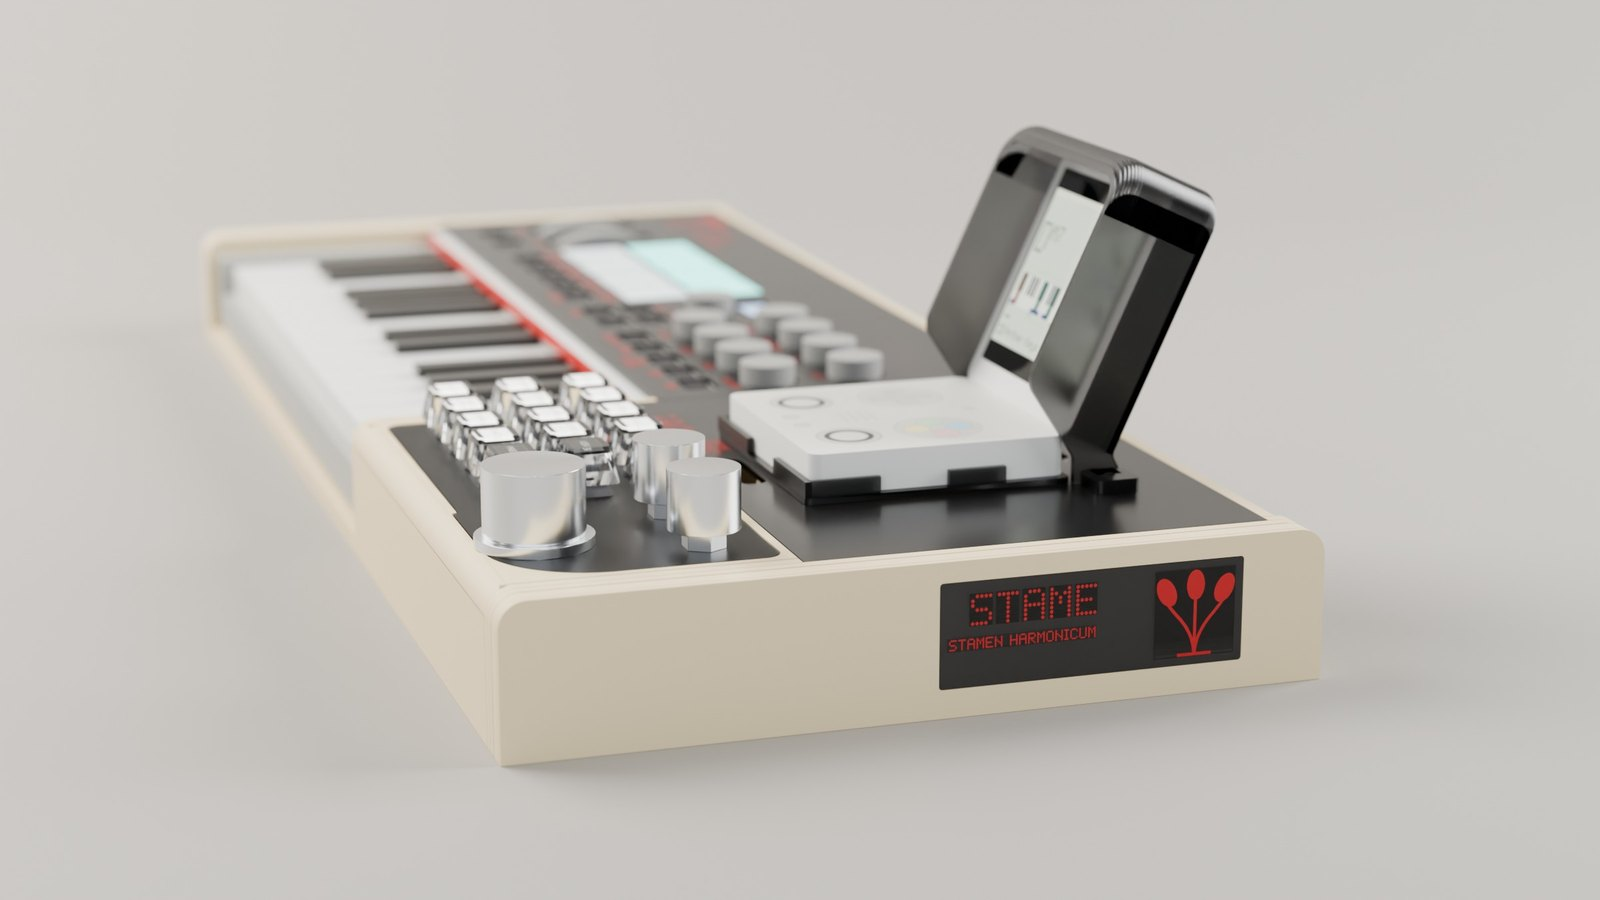
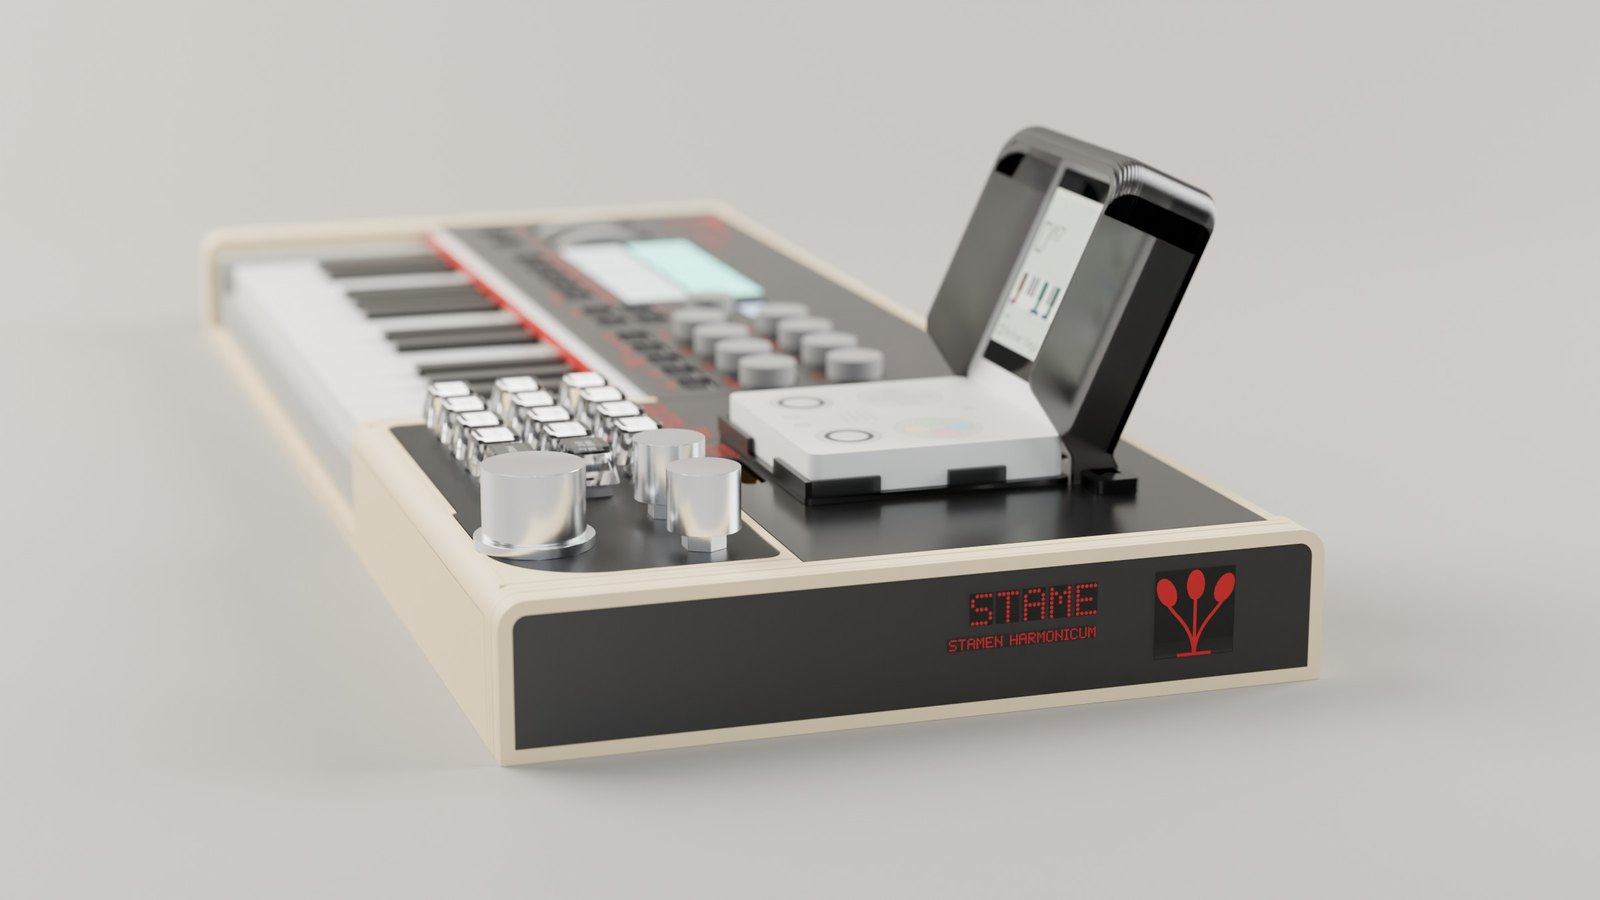
Case stampato, NES: i rendering con le targhe concentriche
Luigi, 22/10/2026: «lanciali alle 18.10». Le otto viste della console stampata in qualità piena (18:10-20:06,
Blender a priorità minima con 16 core): le targhe concentriche dei fianchi e la legenda AMBIENT del piano;
sito_case.py ha rifatto le immagini del sito.

Claude-Session: https://claude.ai/code/session_016ZQdC16h5rq6dnGgb6jjsB

Changed region(s): [[0.3125, 0.5911, 0.8438, 0.84], [0.4375, 0.4978, 0.4688, 0.5289]]

diff --git a/hardware/case/README.md b/hardware/case/README.md
@@ -96,7 +96,7 @@ Per una stampante a più filamenti (Luigi ha una Anycubic Kobra S1 con l'ACE Pro
 - Due filamenti: 1 nero, 2 sabbia. I piani sono neri con le scritte sabbia, le vasche color telaio con le scritte nere.
 - Ogni pezzo con le scritte esce in un `.3mf` (un oggetto con le parti «corpo» e «scritte», i filamenti già assegnati) e in due STL allineati, `_corpo` e `_scritte`, da importare insieme come un oggetto solo. Gli altri pezzi sono STL di un colore.
 - `pezzi.md` dice come caricarli in Anycubic Slicer Next; `anteprima_*.png` mostra ogni faccia come la si guarda; `istruzioni_multicolore.pdf` (tre pagine A4, `manuale.py --multicolore`) raccoglie pezzi, filamenti, slicer e anteprime da stampare.
-- **Nei colori del NES** (Luigi, 20/10/2026: «mi fai una in modalità multicolor con i colori NES? cartella con i pezzi da stampare sulla mia kobra s1»): `multicolore.py --nes` scrive `out/stampa3d_nes/`, gli stessi pezzi per la Kobra S1 nei tre PETG Anycubic di Luigi, 1 grigio traslucido, 2 crema, 3 rosso. Le vasche sono crema, di un filamento solo; il marchio e il nome dei fianchi stanno su due targhe grigie con le scritte rosse (`targa_sx`, `targa_dx`), stampate come la mascherina e incollate nella sede del fianco, profonda 2 mm; dal 22/10/2026 le targhe seguono la forma del fianco, rientrate di 4 mm con gli spigoli tondi concentrici, lunghe 232 mm (Luigi: «le etichette rettangolari non mi piacciono», poi la variante A fra tre; le altre restano in `VARIANTI_TARGHE` e si guardano con `rendering.py --stampata --prova --viste fianco --targhe nome`); piani, culla della Flip e visiera grigi, scritte rosse. Così il filamento cambia solo nei primi tre strati dei pezzi piatti, e le vasche, grandi come il piatto, vanno senza cambi e senza torre (CASE-071). `progetto.py` (lo rifà anche `multicolore.py --nes`) ne fa il lavoro per Anycubic Slicer Next: `stame_kobra_s1.3mf`, sette piatti, uno per colore principale e uno per le due targhe, da stampare per ultimo, i tre filamenti e le impostazioni di `pezzi.md`; stampante e profilo vengono da un progetto salvato da Luigi (`kobra_s1.json`). Affettato dalla riga di comando dello slicer (2.0.0.3) il 20/10/2026: circa 39 ore in modo normale, 788 g di crema, 213 di grigio e 4 di rosso, 12 cambi in tutto. Il piatto delle targhe, affettato il 22/10/2026: 1 h 37 min, 37 g di grigio e 1 di rosso, 4 cambi. Come nei rendering `stampata_*.jpg`, che hanno ancora le targhe rettangolari del 20/10/2026.
+- **Nei colori del NES** (Luigi, 20/10/2026: «mi fai una in modalità multicolor con i colori NES? cartella con i pezzi da stampare sulla mia kobra s1»): `multicolore.py --nes` scrive `out/stampa3d_nes/`, gli stessi pezzi per la Kobra S1 nei tre PETG Anycubic di Luigi, 1 grigio traslucido, 2 crema, 3 rosso. Le vasche sono crema, di un filamento solo; il marchio e il nome dei fianchi stanno su due targhe grigie con le scritte rosse (`targa_sx`, `targa_dx`), stampate come la mascherina e incollate nella sede del fianco, profonda 2 mm; dal 22/10/2026 le targhe seguono la forma del fianco, rientrate di 4 mm con gli spigoli tondi concentrici, lunghe 232 mm (Luigi: «le etichette rettangolari non mi piacciono», poi la variante A fra tre; le altre restano in `VARIANTI_TARGHE` e si guardano con `rendering.py --stampata --prova --viste fianco --targhe nome`); piani, culla della Flip e visiera grigi, scritte rosse. Così il filamento cambia solo nei primi tre strati dei pezzi piatti, e le vasche, grandi come il piatto, vanno senza cambi e senza torre (CASE-071). `progetto.py` (lo rifà anche `multicolore.py --nes`) ne fa il lavoro per Anycubic Slicer Next: `stame_kobra_s1.3mf`, sette piatti, uno per colore principale e uno per le due targhe, da stampare per ultimo, i tre filamenti e le impostazioni di `pezzi.md`; stampante e profilo vengono da un progetto salvato da Luigi (`kobra_s1.json`). Affettato dalla riga di comando dello slicer (2.0.0.3) il 20/10/2026: circa 39 ore in modo normale, 788 g di crema, 213 di grigio e 4 di rosso, 12 cambi in tutto. Il piatto delle targhe, affettato il 22/10/2026: 1 h 37 min, 37 g di grigio e 1 di rosso, 4 cambi. Come nei rendering `stampata_*.jpg`, rifatti il 22/10/2026 sera.
 
 ## Prima di tagliare
 
